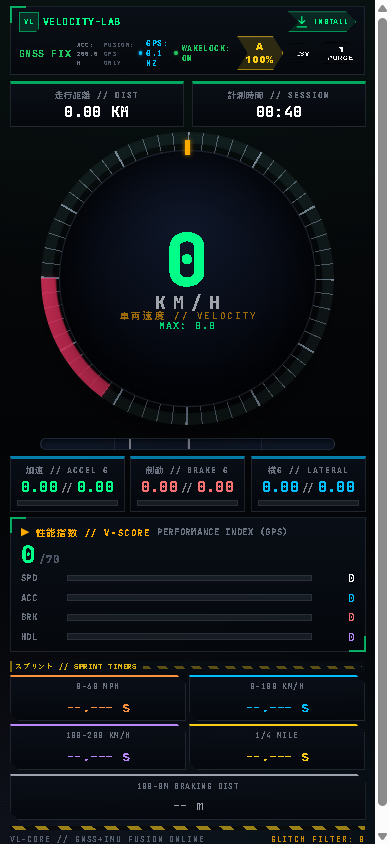
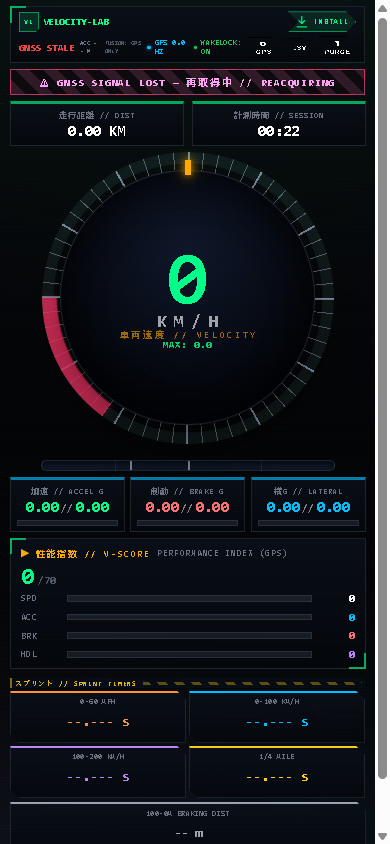
Velocity-Lab PWA Update: ~0,4datetime:~4,2datetime:~6,2 [~8,2datetime:~10,2datetime:~12,2]

diff --git a/index.html b/index.html
@@ -351,7 +351,6 @@
 
         /* ── circular gauge cluster ──────────────────────────────────────── */
         .gauge-wrap { position: relative; display: flex; flex-direction: column; align-items: center; min-width: 0; }
-        .gauge-wrap.large .speed-gauge { --gauge: clamp(14rem, min(85vw, 22rem), 22rem); }
 
         .speed-gauge {
             width: var(--gauge);
@@ -1315,11 +1314,17 @@ let lastRenderTime  = performance.now();
             }
         }
 
-        function gpsConfidence(accuracyMeters) {
+        function gpsConfidence(accuracyMeters, altitudeAccuracy) {
             if (typeof accuracyMeters !== 'number' || isNaN(accuracyMeters)) return 0.0;
-            if (accuracyMeters <= GPS_ACC_TRUST_MIN_M) return 1.0;
-            if (accuracyMeters >= GPS_ACC_TRUST_MAX_M) return 0.0;
-            return 1.0 - (accuracyMeters - GPS_ACC_TRUST_MIN_M) / (GPS_ACC_TRUST_MAX_M - GPS_ACC_TRUST_MIN_M);
+            let conf;
+            if (accuracyMeters <= GPS_ACC_TRUST_MIN_M) conf = 1.0;
+            else if (accuracyMeters >= GPS_ACC_TRUST_MAX_M) conf = 0.0;
+            else conf = 1.0 - (accuracyMeters - GPS_ACC_TRUST_MIN_M) / (GPS_ACC_TRUST_MAX_M - GPS_ACC_TRUST_MIN_M);
+            // L5-grade / barometer-assisted vertical fix lifts trust (capped, never masks bad horizontal)
+            if (conf > 0 && typeof altitudeAccuracy === 'number' && isFinite(altitudeAccuracy) && altitudeAccuracy < 12) {
+                conf = Math.min(1.0, conf + 0.15);
+            }
+            return conf;
         }
 
         // ─── PERSISTENCE LAYER ────────────────────────────────────────────────────
@@ -1550,7 +1555,7 @@ let lastRenderTime  = performance.now();
             setDOM(dom.vScoreHdl, 'vHdl', score.hdl);
             // category progress bars to their ceilings (SPD 20 / ACC 10 / BRK 15 / HDL 25)
             const bars = [[dom.vbarSpd, score.spd, 20], [dom.vbarAcc, score.acc, 10], [dom.vbarBrk, score.brk, 15], [dom.vbarHdl, score.hdl, 25]];
-            for (const [el, val, max] of bars) el.style.width = Math.round((val / max) * 100) + "%";
+            for (const [el, val, max] of bars) el.style.width = ((val / max) * 100).toFixed(1) + "%";
         }
 
         // ─── SUB-SAMPLE INTERPOLATION ─────────────────────────────────────────────
@@ -1742,7 +1747,8 @@ let lastRenderTime  = performance.now();
             }
 
             const acc = (typeof c.accuracy === 'number') ? c.accuracy : 999;
-            const conf = gpsConfidence(acc);   // 0..1 GPS quality
+            const altAcc = (typeof c.altitudeAccuracy === 'number' && !isNaN(c.altitudeAccuracy)) ? c.altitudeAccuracy : null;
+            const conf = gpsConfidence(acc, altAcc);   // 0..1 GPS quality
             lastGpsConfidence  = conf;
             confidenceSum     += conf;
             confidenceSamples  += 1;
@@ -2379,6 +2385,9 @@ let lastRenderTime  = performance.now();
                 if (speedGauge) speedGauge.classList.add('boot');
                 if (gForceRing) gForceRing.classList.add('boot');
 
+                // Motion-sensitive users skip the flashing self-test (CSS already kills boot anims)
+                const reduceMotion = typeof window.matchMedia === 'function' && window.matchMedia('(prefers-reduced-motion: reduce)').matches;
+                if (!reduceMotion) {
                 // Bar demo sweep — every bar fills 0→100→0 so you can verify
                 const demoBars = [
                     dom.accelFill, dom.brakeFill, dom.latFill,
@@ -2460,6 +2469,7 @@ let lastRenderTime  = performance.now();
                     // restore prev caches so live updates repaint
                     prev.speed=null; prev.displayMax=null; prev.distKm=null; prev.sessClock=null; prev.liveLonG=null; prev.liveLatG=null; prev.brakeLive=null; prev.gMagnitudeArc=null; prev.peakG=null; prev.brakeScore=null; prev.peakLatGMetric=null; prev.peakLonGMetric=null; prev.vTot=-1; prev.vSpd=-1; prev.vAcc=-1; prev.vBrk=-1; prev.vHdl=-1; prev.glitchN=-1; prev.accuracy=null; prev.updateRate=null;
                 }, 450);
+                } // end boot self-test demo (skipped under prefers-reduced-motion)
             }, 20);
 
             // Auto-scale on resize/orientation change — debounced via RAF to avoid layout thrash

diff --git a/.opencode/skills/perfection-audit/SKILL.md b/.opencode/skills/perfection-audit/SKILL.md
@@ -100,8 +100,8 @@ Verify: node tests/fluidity.test.js && node tests/telemetry.test.js && pwsh veri
 Even if 0-8 PASS, auditor must suggest 2-3 lively/sharp/contrast wins: e.g., `scanlines:154` static → pulse `0.12→0.18` at 3s, `neon-* :94` `text-shadow 10px` → add `pulse 2s` on `peak-marker:390`, `hud-boot 0.28s:553` could use `spring(stiffness 500)` via `chrome-devtools` + `Figma` lively `g-force-ring 0.8s`, `prefers-contrast:more:903` `--line 0.40` could be `0.55` for sharp. List as `SUGGEST` not FAIL.
 
 ### Gate 9 — Optimization & Feature & Accuracy (Advisory, must output ranked Recommendations even if PASS)
-- **Optimization:** `saveSession` idle cadence (`index.html:2240` — done 1.5s+idle), `sw.js:76` `MAX_RUNTIME` (done 100), `will-change` layers (`index.html:361` — done), font load (`index.html:20` `display=optional` vs self-host `woff2`), `peak-pulse` box-shadow paint (`index.html:419`), dead per-frame `emX/emY` (removed)
-- **Accuracy:** `GPS_STALE_MS` (`index.html:1145` — done 8000), `GPS_ACC_TRUST 4-25m` + L5/barometer altitude, `FUSION_GPS_WEIGHT` adapt >5Hz (`index.html:1550` — done), `crossFraction` linear vs quadratic (`index.html:1602`), creep gate (`index.html:1760` — done 0.3 high-conf)
+- **Optimization:** `saveSession` idle cadence (done 1.5s+idle), `sw.js:76` `MAX_RUNTIME` (done 100), `will-change` layers (done), boot demo motion-gated (done `reduceMotion`), dead `:354` vw-clamp (removed), v-bars fractional (done `.toFixed(1)`), font load (`index.html:20` `display=optional` vs self-host `woff2`), `peak-pulse` box-shadow paint (`index.html:419`)
+- **Accuracy:** `GPS_STALE_MS` (done 8000), altitude lift in `gpsConfidence` (done +0.15 <12m), `FUSION_GPS_WEIGHT` adapt >5Hz (done), `crossFraction` linear vs quadratic (`index.html:1602`), creep gate (done 0.3 high-conf)
 - **Features/UI:** timer ghost best (`index.html:1114` — done `BEST_KEY`), text-scale fully auto via media (`index.html:133` — button removed), landscape grid (done `orientation: landscape`), iOS re-ask expiry (`index.html:2216`), `manifest.json` shortcuts/share_target, HIG 44pt touch (`index.html:44`)
 - Rank every item `P0 (bug/risk) / P1 (real win) / P2 (polish)` with `impact` + `effort Low/Med` + `file:line`. Skip items already implemented; never re-suggest done work.
 
